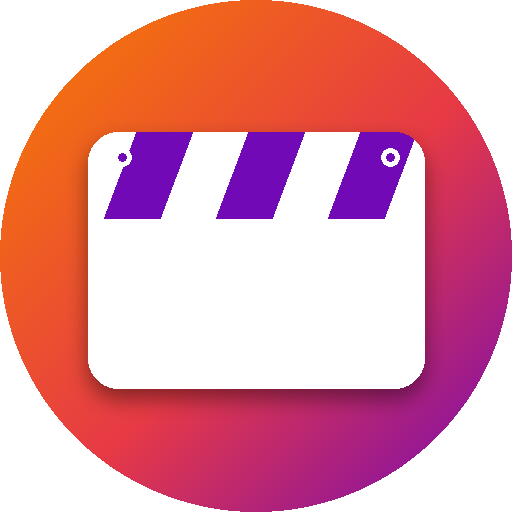
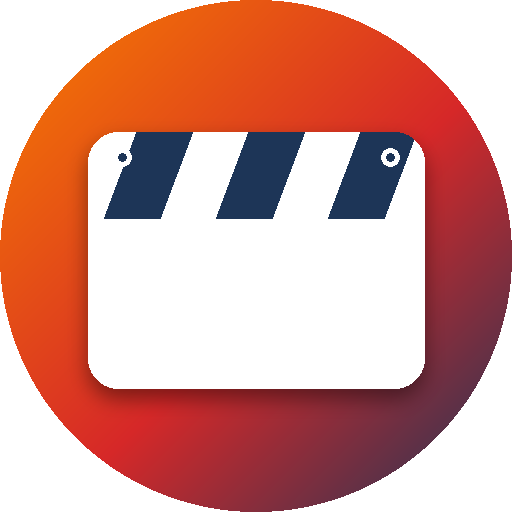
Replace purple with navy to actually eliminate the pink
Red blended into purple passes through magenta/pink in the middle of
the gradient — that's why the previous coral-red swap wasn't enough.
The gradient's dark anchor is now navy (#1d3557) instead, so the
red-to-dark transition never crosses into pink. Applied to the
gradient, the list color palette, and the favicon. Also adds a panda
to the avatar picker.

Changed region(s): [[0.0938, 0.0938, 1.0, 1.0], [0.1875, 0.25, 0.375, 0.4375], [0.4062, 0.25, 0.5938, 0.4375]]

diff --git a/app/assets/stylesheets/components/index.scss b/app/assets/stylesheets/components/index.scss
@@ -1,12 +1,14 @@
 // Components folder
 
-// "Premiere" gradient: the app's accent — orange into a bold coral-red
-// into purple. Class names below keep their original "-ocean" suffix
-// from the old flat teal theme — renaming them would mean touching
-// every view that references them, for a purely cosmetic reason.
-$gradient-premiere: linear-gradient(135deg, #f77f00 0%, #e63946 55%, #7209b7 100%);
-$accent-warm: #e63946;
-$accent-purple: #7209b7;
+// "Premiere" gradient: the app's accent — orange fading into red into a
+// dark navy. Deliberately not red-into-purple: that blend passes through
+// magenta/pink in the middle, which is exactly what this palette is
+// avoiding. Class names below keep their original "-ocean" suffix from
+// the old flat teal theme — renaming them would mean touching every view
+// that references them, for a purely cosmetic reason.
+$gradient-premiere: linear-gradient(135deg, #f77f00 0%, #d62828 55%, #1d3557 100%);
+$accent-warm: #d62828;
+$accent-deep: #1d3557;
 
 .navbar-ocean {
   background: $gradient-premiere;
@@ -14,7 +16,7 @@ $accent-purple: #7209b7;
 
 body {
   font-family: "Poppins", sans-serif;
-  background: linear-gradient(180deg, #fff9f2 0%, #fdf3ef 45%, #f4f1fa 100%);
+  background: linear-gradient(180deg, #fff9f2 0%, #fdf1ee 45%, #eef1f6 100%);
   min-height: 100vh;
 }
 
@@ -30,7 +32,7 @@ body {
 .form-select:focus,
 .form-check-input:focus {
   border-color: $accent-warm;
-  box-shadow: 0 0 0 0.25rem rgba(230, 57, 70, 0.2);
+  box-shadow: 0 0 0 0.25rem rgba(214, 40, 40, 0.2);
 }
 
 h1, h2, h3, h4, h5, .navbar-brand {
@@ -49,7 +51,7 @@ h1, h2, h3, h4, h5, .navbar-brand {
   text-decoration: none;
 
   &:hover {
-    color: $accent-purple;
+    color: $accent-deep;
   }
 }
 
@@ -66,8 +68,8 @@ h1, h2, h3, h4, h5, .navbar-brand {
 
 .btn-outline-ocean {
   background-color: transparent;
-  border-color: $accent-purple;
-  color: $accent-purple;
+  border-color: $accent-deep;
+  color: $accent-deep;
 
   &:hover {
     background: $gradient-premiere;

diff --git a/app/models/list.rb b/app/models/list.rb
@@ -6,7 +6,7 @@ class List < ApplicationRecord
 
   # The app's accent palette, shared between the default cycling colors
   # on the home page and the picker for customizing a single list.
-  ACCENT_COLORS = %w[#f77f00 #e63946 #7209b7 #118ab2 #06d6a0].freeze
+  ACCENT_COLORS = %w[#f77f00 #d62828 #1d3557 #118ab2 #06d6a0].freeze
 
   validates :name, presence: true, uniqueness: { scope: :user_id }
   validates :color, inclusion: { in: ACCENT_COLORS }, allow_blank: true

diff --git a/app/helpers/bookmarks_helper.rb b/app/helpers/bookmarks_helper.rb
@@ -24,6 +24,6 @@ module BookmarksHelper
   }.freeze
 
   def genre_badge_color(genre_name)
-    GENRE_COLORS[genre_name] || "#7209b7"
+    GENRE_COLORS[genre_name] || "#1d3557"
   end
 end
